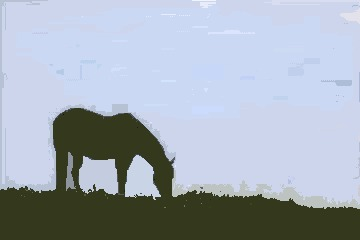
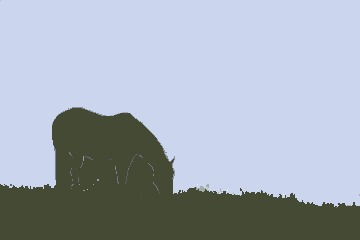
changes for new images

diff --git a/docs/src/imagesegmentation.md b/docs/src/imagesegmentation.md
@@ -43,9 +43,9 @@ All the segmentation algorithm (except Fuzzy C-means) return a struct `Segmented
 length(segments.segment_labels)   # number of segments = 3
 
 segments.segment_means
-#first segment's color = RGB(0.926717,0.959906,0.991948) = white
-#second segment's color = RGB(0.445402,0.419814,0.278071) = brown
-#third segment's color = RGB(0.445402,0.419814,0.278071) = light brown
+#first segment's color (horse) = RGB(0.0647831,0.0588508,0.074473) = black
+#second segment's color (sky) = RGB(0.793598,0.839543,0.932374) = light blue
+#third segment's color (grass) = RGB(0.329876,0.357805,0.23745) = green
 
 # for visualizing the segmentation, create an image by replacing each each label in segments.image_indexmap with it's mean color
 imshow(map(i->segments.segment_means[i], segments.image_indexmap))
@@ -61,16 +61,16 @@ img = load("horse.jpg")
 segments = felzenszwalb(img, 100)
 imshow(map(i->segments.segment_means[i], segments.image_indexmap))
 
-segments = felzenszwalb(img, 5)  #smaller segments but noisy segmentation
+segments = felzenszwalb(img, 10)  #smaller segments but noisy segmentation
 imshow(map(i->segments.segment_means[i], segments.image_indexmap))
 ```
 
 ![Original](assets/segmentation/horse_seg2.jpg)  ![Original](assets/segmentation/horse_seg3.jpg)
 
-We only got two segments with k = 100. Setting k = 5 resulted in smaller but rather noisy segments. `felzenzwalb` also takes an optional argument `min_size` - it removes all segments smaller with less the `min_size` pixels. Most methods don't remove small segments in their core algorithm. We can use the `prune_segments` method to postprocess the segmentation result and remove small segments.
+We only got two segments with k = 100. Setting k = 10 resulted in smaller but rather noisy segments. `felzenzwalb` also takes an optional argument `min_size` - it removes all segments smaller with less than `min_size` pixels. Most methods don't remove small segments in their core algorithm. We can use the `prune_segments` method to postprocess the segmentation result and remove small segments.
 
 ```julia
-segments = felzenszwalb(img, 5, 100)  #removes small segments
+segments = felzenszwalb(img, 10, 100)  #removes small segments
 imshow(map(i->segments.segment_means[i], segments.image_indexmap))
 ```
 
